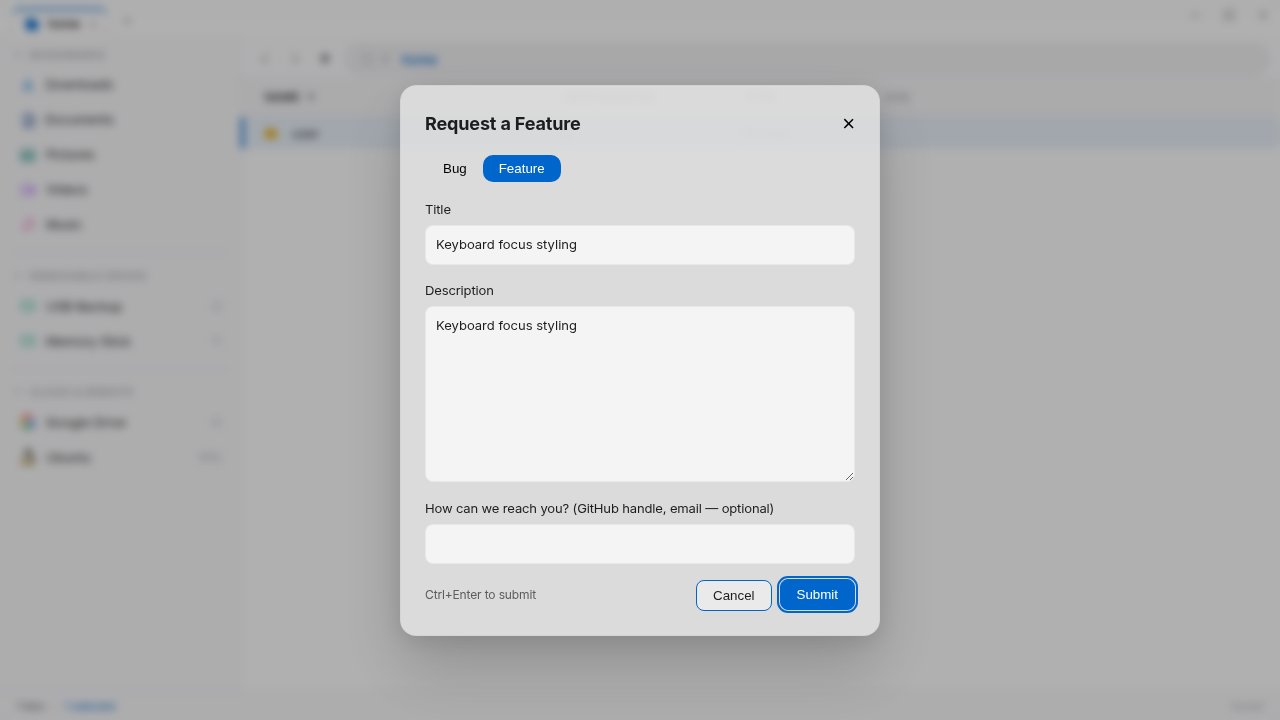
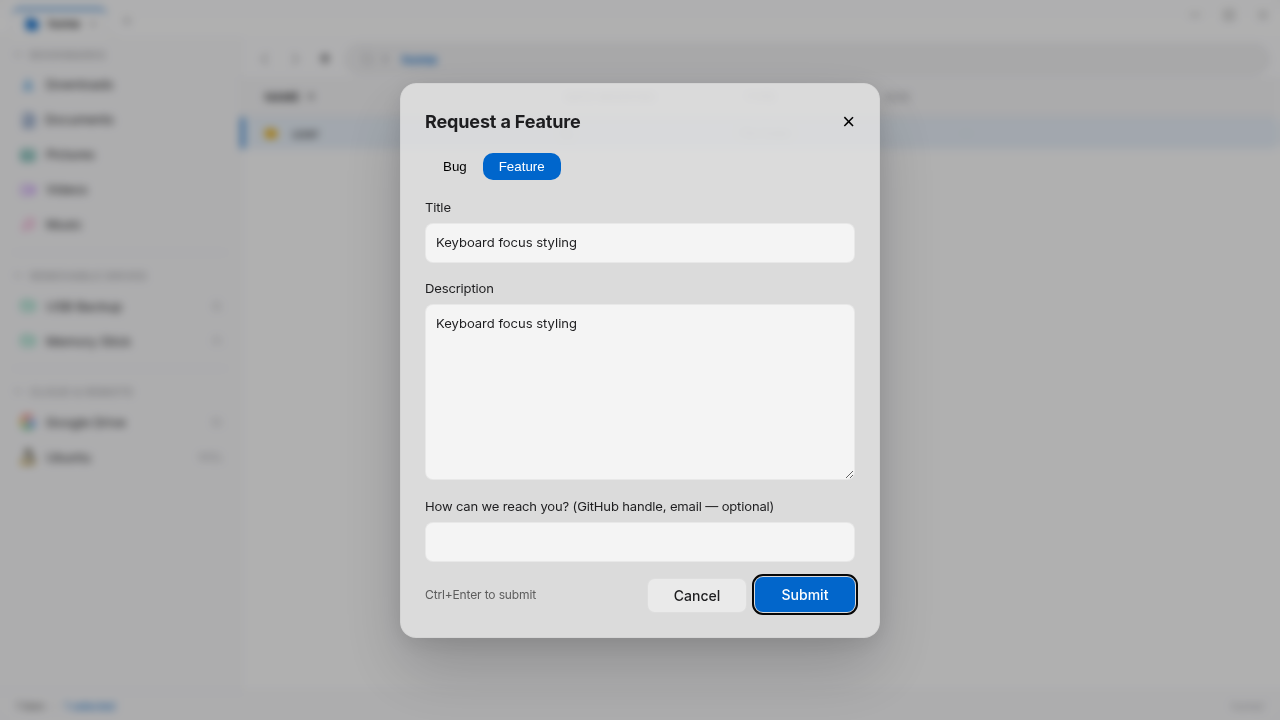
fix(green): use shared modal button contract

diff --git a/src/lib/components/UserReportDialog.svelte b/src/lib/components/UserReportDialog.svelte
@@ -124,8 +124,8 @@
 
     <footer>
       <span class="hint">Ctrl+Enter to submit</span>
-      <button type="button" onclick={onClose} disabled={submitting}>Cancel</button>
-      <button type="submit" class="primary" disabled={!canSubmit}>
+      <button type="button" class="btn secondary" onclick={onClose} disabled={submitting}>Cancel</button>
+      <button type="submit" class="btn primary" disabled={!canSubmit}>
         {submitting ? "Submitting…" : "Submit"}
       </button>
     </footer>
@@ -175,29 +175,4 @@
   textarea { resize: vertical; min-height: 130px; }
   footer { gap: 8px; }
   .hint { margin-right: auto; color: var(--text-secondary); font-size: 12px; }
-  footer button {
-    padding: 7px 16px;
-    border: 1px solid var(--control-stroke);
-    border-radius: var(--radius-sm);
-    background: var(--control-fill);
-    color: var(--text-primary);
-    transition: background 120ms ease, border-color 120ms ease;
-  }
-  footer button:hover:not(:disabled) {
-    background: var(--control-fill-secondary);
-    border-color: var(--accent);
-  }
-  footer button:focus-visible {
-    outline: 2px solid var(--accent);
-    outline-offset: 1px;
-  }
-  footer button:disabled { opacity: 0.6; }
-  footer .primary {
-    background: var(--accent);
-    border-color: var(--accent);
-    color: var(--text-on-accent, white);
-  }
-  footer .primary:hover:not(:disabled) {
-    background: color-mix(in srgb, var(--accent) 85%, black);
-  }
 </style>

diff --git a/e2e/bug-report.spec.ts b/e2e/bug-report.spec.ts
@@ -9,6 +9,10 @@ async function runPaletteCommand(page: import("@playwright/test").Page, query: s
   await page.keyboard.press("Enter");
 }
 
+function evidencePath(name: string): string {
+  return process.env.CAPTURE_EVIDENCE ? `evidence/${name}` : `test-results/${name}`;
+}
+
 for (const command of ["Report a Bug", "Request a Feature"]) {
   test(`${command} submits in-app and links the created issue`, async ({ page }) => {
     await page.goto("/");
@@ -33,8 +37,8 @@ for (const command of ["Report a Bug", "Request a Feature"]) {
 
 test("report dialog footer buttons use the themed control treatment", async ({ page }) => {
   for (const [command, name, screenshot] of [
-    ["Report a Bug", /report a bug/i, "evidence/ac-1-report-dialog-buttons.png"],
-    ["Request a Feature", /request a feature/i, "evidence/ac-1-feature-dialog-buttons.png"],
+    ["Report a Bug", /report a bug/i, "ac-1-report-dialog-buttons.png"],
+    ["Request a Feature", /request a feature/i, "ac-1-feature-dialog-buttons.png"],
   ] as const) {
     await page.goto("/");
     await waitForEntries(page);
@@ -71,7 +75,7 @@ test("report dialog footer buttons use the themed control treatment", async ({ p
     await expect.poll(() => submit.evaluate((element) => getComputedStyle(element).outlineStyle))
       .toBe("solid");
 
-    await page.screenshot({ path: screenshot });
+    await page.screenshot({ path: evidencePath(screenshot) });
   }
 });
 

diff --git a/docs/lessons/554-report-dialog-button-style.md b/docs/lessons/554-report-dialog-button-style.md
@@ -1,7 +1,8 @@
 # #554: Keep report dialog actions in the shared control language
 
-The report dialog owns its footer button styles, so adding only padding leaves
-the browser's default border and transparent-background treatment visible.
-Action buttons in this dialog should define the same control contract as the
-rest of the app: themed fill and stroke, the shared radius, a primary accent
-variant, and keyboard-visible focus/hover states.
+The report dialog originally added only footer-button padding, leaving the
+browser's default border and transparent-background treatment visible. Dialog
+actions should opt into the shared `.modal-card .btn` contract with its
+`secondary` or `primary` variant instead of duplicating that contract locally.
+This keeps themed fill, stroke, radius, active, disabled, hover, and focus
+states aligned with every other modal.
